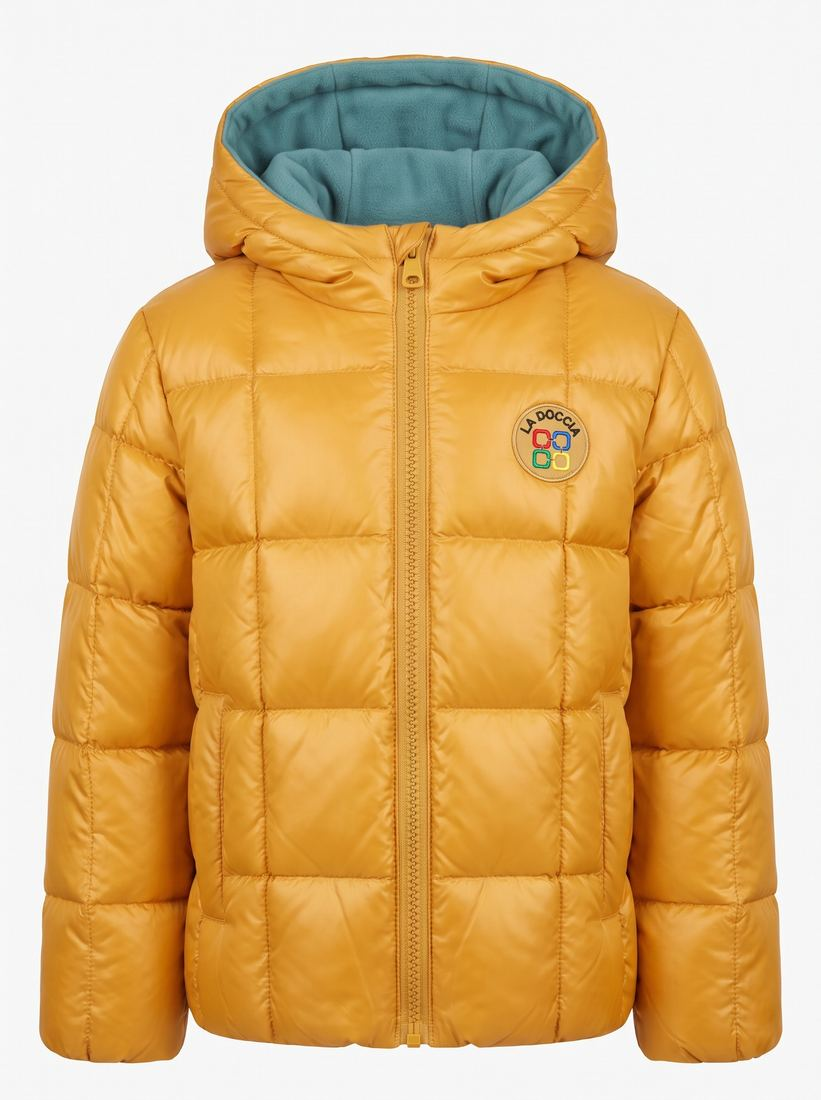
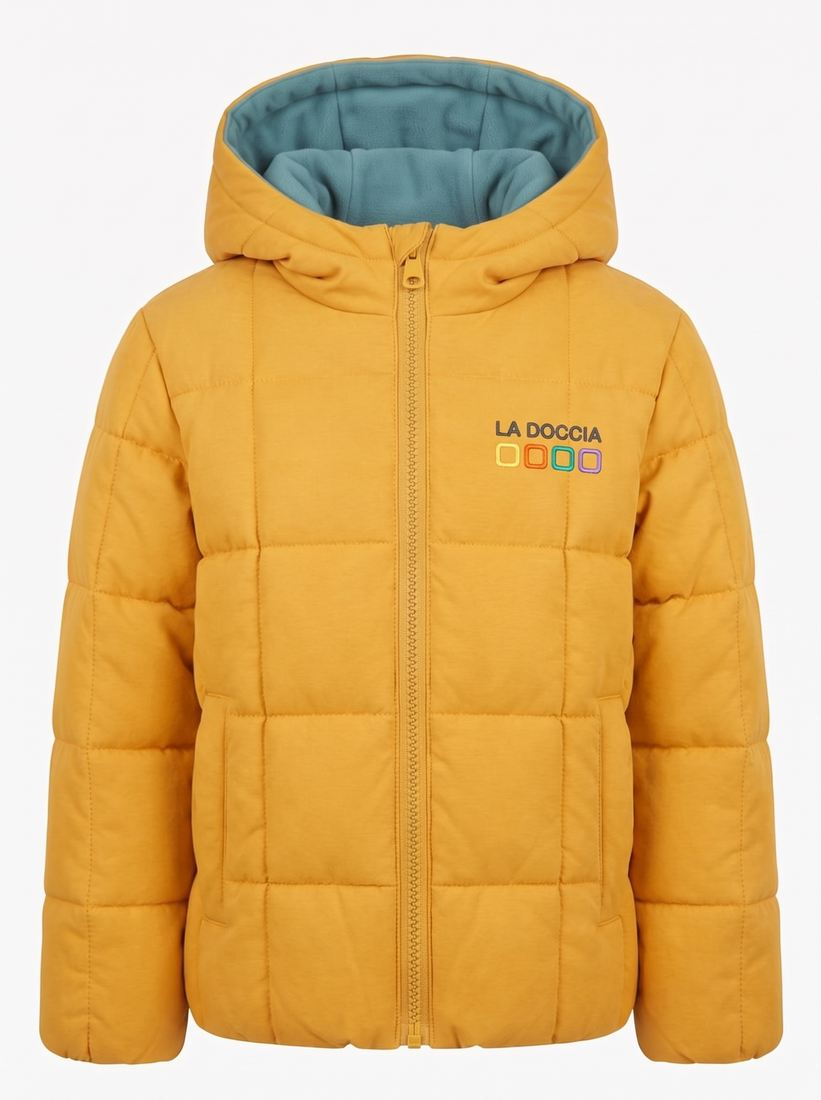
Model-Fotos fuer alle Parfuems, Cap in 4 Farben repariert, Kinderjacke matt/bunt, 3 neue Modeprodukte
- Jedes Parfuem bekommt ein E-Commerce-Modelfoto in der Galerie (Flakon designtreu)
- Cap Quadro: Geisterbild-Fehler entfernt, jetzt in Weiss/Gelb/Tuerkis/Violett waehlbar
- Kinder-Piumino: matte Baumwoll-Optik statt Moncler-Glanz, Wortmarke statt dunklem Badge, Weiss/Gelb/Tuerkis
- Neu: Premium-Polo Bottone (Gold-Quadrat-Knoepfe), Track-Jacke Pista Donna, Kinder-Strickpulli Quadretti Mini

diff --git a/index.html b/index.html
@@ -2101,7 +2101,7 @@ const P=[
  {id:'p106',cat:'mode',sc:'sport',who:'damen',n:'Trainings-Top „Flow“',p:29,img:'assets/p/106_a.jpg',img2:'assets/p/106_b.jpg',gal:['assets/p/106_b.jpg'],r:4.7,rv:9,badge:'Neu',mat:'100 % recyceltes Polyester',sizes:["XS","S","M","L"],rel:["p106","p105","p105"],d:'Lässiges weißes Trainingsshirt mit überschnittenen Schultern — luftig über Bra und Leggings.',x:'Federleicht und atmungsaktiv, bleibt geruchsneutral. Bei 30 °C waschen.'},
  {id:'p108',cat:'mode',sc:'sport',who:'damen',n:'Sporttasche „Palestra“',p:49,img:'assets/p/108_neu_a.jpg',colors:[4,5,2],cimg:{Weiß:'assets/p/108_neu_a.jpg',Schwarz:'assets/p/108_schwarz.jpg','Türkis':'assets/p/108_tuerkis.jpg'},r:4.9,rv:6,badge:'Neu',mat:'100 % recyceltes Polyester',rel:["p109","p105","p105"],d:'Die Trainingstasche nach eigener Skizze: gewölbter Deckel, vier Quadrat-Fenster in den Markenfarben auf der Front.',x:'Wasserabweisendes Gewebe, Schuhfach, abwischbarer Boden. Bei 30 °C von Hand waschen.'},
  {id:'p109',cat:'mode',sc:'sport',who:'damen',n:'Trinkflasche „Idra“, 750 ml',p:24,img:'assets/p/109_a.jpg',img2:'assets/p/109_b.jpg',gal:['assets/p/109_b.jpg'],r:4.8,rv:11,badge:'Neu',rel:["p108","p105","p109"],d:'Doppelwandige Edelstahlflasche in mattem Türkis mit den vier Quadraten — hält 24 h kalt.',x:'Auslaufsicher, passt in gängige Flaschenhalter. Von Hand spülen, nicht für kohlensäurehaltige Getränke.'},
- {id:'p128',cat:'parfuem',sc:'edp',n:'Eau de Parfum „Blocco“, 50 ml',p:159,img:'assets/p/128_a.jpg',img2:'assets/p/128_b.jpg',gal:["assets/p/128_b.jpg"],r:5.0,rv:2,badge:'Neu',rel:["p128","p140","p142"],d:'Vier Würfel aus sattem Farbglas — Gelb, Orange, Türkis, Violett — übereinander, gekrönt vom runden Golddeckel. Unser Signature-Turm.',x:'14 % Duftölanteil: Ambra, Zeder und ein Hauch Salz. Design geschützt, Erstveröffentlichung dokumentiert.'},
+ {id:'p128',cat:'parfuem',sc:'edp',n:'Eau de Parfum „Blocco“, 50 ml',p:159,img:'assets/p/128_a.jpg',img2:'assets/p/128_b.jpg',gal:["assets/p/128_b.jpg", "assets/p/128_c.jpg"],r:5.0,rv:2,badge:'Neu',rel:["p128","p140","p142"],d:'Vier Würfel aus sattem Farbglas — Gelb, Orange, Türkis, Violett — übereinander, gekrönt vom runden Golddeckel. Unser Signature-Turm.',x:'14 % Duftölanteil: Ambra, Zeder und ein Hauch Salz. Design geschützt, Erstveröffentlichung dokumentiert.'},
  {id:'p130',cat:'mode',sc:'kleidung',who:'herren',n:'Poloshirt „Marina Oro“',p:129,img:'assets/p/130_a.jpg',r:5.0,rv:2,badge:'Neu',mat:'100 % Piqué-Baumwolle (schwere Qualität)',sizes:["S","M","L","XL"],rel:["p120","p131","p122"],d:'Die Premium-Schiene: weißes Piqué-Polo mit goldenen Quadrat-Knöpfen, goldenem Logostick und der sichtbaren goldenen Ziernaht — unsere Handschrift, die alle anderen verstecken.',x:'Fette Kontrastnähte an Schulter, Kragen und Knopfleiste. Bei 30 °C waschen, in Form ziehen.'},
  {id:'p131',cat:'mode',sc:'kleidung',who:'herren',n:'Hemd „Camicia“',p:119,img:'assets/p/131_a.jpg',r:4.9,rv:2,badge:'Neu',mat:'100 % Baumwolle (Oxford)',sizes:["S","M","L","XL"],rel:["p130","p120","p122"],d:'Weißes Hemd, komplett zum Öffnen: goldene Quadrat-Knöpfe über die ganze Leiste, türkise Ziernähte an Schultern und Manschetten, Brusttasche mit Logostick.',x:'Sichtbare Nähte als Markenzeichen — wirkt unzerreißbar. Bei 40 °C waschen, bügelleicht.'},
  {id:'p132',cat:'mode',sc:'schuhe',who:'damen',n:'Sneaker „Scintilla“',p:169,img:'assets/p/132_a.jpg',colors:[4,5],cimg:{Weiß:'assets/p/132_a.jpg',Schwarz:'assets/p/132_schwarz.jpg'},r:5.0,rv:3,badge:'Neu',mat:'Leder, Gummisohle',sizes:["36","37","38","39","40","41"],rel:["p64","p116","p117"],d:'Die Premium-Schiene: weißer Ledersneaker mit goldenen Ziernähten an jeder Kante und dem funkelnden Kristall-Quadrat an der Ferse — strahlt, sobald die Sonne drauffällt.',x:'Kristallbesatz aus geschliffenem Acryl, geprägtes LA DOCCIA an der Ferse. Mit Ledertuch pflegen.'},
@@ -2111,25 +2111,28 @@ const P=[
  {id:'p136',cat:'mode',sc:'taschen',who:'damen',n:'Handtasche „Quadra Mini“',p:129,img:'assets/p/136_a.jpg',r:5.0,rv:2,badge:'Neu',mat:'Genarbtes Leder, goldene Kette',rel:["p117","p137","p132"],d:'Die kleine Quadra für den Abend: kompakt, streng quadratisch, mit goldener Kette und dem funkelnden Kristall-Quadrat.',x:'Kette abnehmbar, Platz für Telefon, Karte und Lippenbalsam. Goldene Hardware.'},
  {id:'p137',cat:'mode',sc:'taschen',who:'damen',n:'Baguette „Lunga“',p:149,img:'assets/p/137_a.jpg',r:4.9,rv:2,badge:'Neu',mat:'Genarbtes Leder',rel:["p117","p136","p116"],d:'Die längliche Form der Familie: schmale Baguette-Tasche mit exakt geraden Kanten, goldener Ziernaht und den vier goldgefassten Quadraten auf der Front.',x:'Unter den Arm oder in die Hand — Magnetverschluss, goldene Füße am Boden.'},
  {id:'p138',cat:'mode',sc:'kleidung',who:'herren',n:'Sommerhemd „Quadri“',p:109,img:'assets/p/138_a.jpg',r:4.9,rv:2,badge:'Neu',mat:'100 % Baumwolle',sizes:["S","M","L","XL"],rel:["p131","p130","p122"],d:'Das Sommerhemd mit dem gestreuten Quadrate-Print — wie Farbtropfen im Regen, elegant statt laut. Goldene Quadrat-Knöpfe, türkise Ziernaht am Kragen.',x:'Reverskragen, gerader Saum — lässt sich offen oder geschlossen tragen. Bei 30 °C waschen.'},
- {id:'p140',cat:'parfuem',sc:'edp',n:'Eau de Parfum „Duo“, 30 ml',p:99,img:'assets/p/140_a.jpg',img2:'assets/p/140_b.jpg',gal:["assets/p/140_b.jpg"],r:4.9,rv:2,badge:'Neu',rel:["p128","p141","p128"],d:'Zwei Würfel, zwei Farben: Türkis unten, Violett oben, ein geschlossener Block — der kleine Bruder des Turms. Die Öffnung sitzt unsichtbar im oberen Würfel.',x:'12 % Duftölanteil. Handlich fürs Regal und die Reise.'},
- {id:'p141',cat:'parfuem',sc:'edp',n:'Eau de Parfum „Piccolo“, 15 ml',p:59,img:'assets/p/141_a.jpg',img2:'assets/p/141_b.jpg',gal:["assets/p/141_b.jpg"],r:4.9,rv:3,badge:'Neu',rel:["p140","p128","p141"],d:'Ein einzelner Würfel in Gelb mit Golddeckel — das Reiseformat der Turm-Familie, klein wie ein Schmuckstück.',x:'Flugtauglich unter 100 ml. Auch schön als Geschenk zum Kennenlernen.'},
- {id:'p142',cat:'parfuem',sc:'edp',n:'Eau de Parfum „Grattacielo“, 75 ml',p:189,img:'assets/p/142_a.jpg',img2:'assets/p/142_b.jpg',gal:["assets/p/142_b.jpg"],r:5.0,rv:2,badge:'Neu',rel:["p128","p128","p140"],d:'Der Wolkenkratzer: sechs dünne Glasscheiben in den Markenfarben übereinander, oben bündig geschlossen — das große Format der Familie.',x:'15 % Duftölanteil — der langlebigste Duft der Kollektion.'},
+ {id:'p140',cat:'parfuem',sc:'edp',n:'Eau de Parfum „Duo“, 30 ml',p:99,img:'assets/p/140_a.jpg',img2:'assets/p/140_b.jpg',gal:["assets/p/140_b.jpg", "assets/p/140_c.jpg"],r:4.9,rv:2,badge:'Neu',rel:["p128","p141","p128"],d:'Zwei Würfel, zwei Farben: Türkis unten, Violett oben, ein geschlossener Block — der kleine Bruder des Turms. Die Öffnung sitzt unsichtbar im oberen Würfel.',x:'12 % Duftölanteil. Handlich fürs Regal und die Reise.'},
+ {id:'p141',cat:'parfuem',sc:'edp',n:'Eau de Parfum „Piccolo“, 15 ml',p:59,img:'assets/p/141_a.jpg',img2:'assets/p/141_b.jpg',gal:["assets/p/141_b.jpg", "assets/p/141_c.jpg"],r:4.9,rv:3,badge:'Neu',rel:["p140","p128","p141"],d:'Ein einzelner Würfel in Gelb mit Golddeckel — das Reiseformat der Turm-Familie, klein wie ein Schmuckstück.',x:'Flugtauglich unter 100 ml. Auch schön als Geschenk zum Kennenlernen.'},
+ {id:'p142',cat:'parfuem',sc:'edp',n:'Eau de Parfum „Grattacielo“, 75 ml',p:189,img:'assets/p/142_a.jpg',img2:'assets/p/142_b.jpg',gal:["assets/p/142_b.jpg", "assets/p/142_c.jpg"],r:5.0,rv:2,badge:'Neu',rel:["p128","p128","p140"],d:'Der Wolkenkratzer: sechs dünne Glasscheiben in den Markenfarben übereinander, oben bündig geschlossen — das große Format der Familie.',x:'15 % Duftölanteil — der langlebigste Duft der Kollektion.'},
  {id:'p143',cat:'mode',sc:'jacken',who:'herren',n:'Daunenjacke „Piuma“',p:249,img:'assets/p/143_schwarz.jpg',colors:[5,2,4],cimg:{Schwarz:'assets/p/143_schwarz.jpg','Türkis':'assets/p/143_tuerkis.jpg',Weiß:'assets/p/143_weiss.jpg'},r:5.0,rv:2,badge:'Neu',mat:'Recyceltes Polyamid, Daune (RDS)',sizes:["S","M","L","XL"],rel:["p126","p146","p130"],d:'Unsere Daunenjacke mit dem Quadrat-Stepp: statt Querstreifen wölbt sich jede Kammer als Quadrat. Goldener Reißverschluss, Brustbadge mit den vier Quadraten.',x:'Warm, leicht, wasserabweisend. Bei 30 °C im Schonwaschgang, mit Tennisbällen trocknen.'},
  {id:'p144',cat:'mode',sc:'jacken',who:'damen',n:'Daunenjacke „Piuma Donna“',p:229,img:'assets/p/144_violett.jpg',colors:[3,4,1],cimg:{Violett:'assets/p/144_violett.jpg',Weiß:'assets/p/144_weiss.jpg',Orange:'assets/p/144_orange.jpg'},r:5.0,rv:3,badge:'Neu',mat:'Recyceltes Polyamid, Daune (RDS)',sizes:["XS","S","M","L"],rel:["p143","p117","p116"],d:'Die cropped Version mit Quadrat-Steppung und Goldzipper — Volumen oben, Taille frei.',x:'Warm, federleicht, wasserabweisend. Bei 30 °C im Schonwaschgang.'},
  {id:'p145',cat:'mode',sc:'kleidung',who:'damen',n:'Strickpullover „Quadretti“',p:149,img:'assets/p/145_creme.jpg',colors:[4,5],cimg:{Weiß:'assets/p/145_creme.jpg',Schwarz:'assets/p/145_anthrazit.jpg'},r:4.9,rv:2,badge:'Neu',mat:'70 % Wolle, 30 % Baumwolle',sizes:["XS","S","M","L"],rel:["p134","p144","p116"],d:'Cremefarbener Strick mit eingestrickten Hohlquadraten in den vier Markenfarben — verspielt, aber teuer gedacht. Goldfaden an Kragen und Bündchen.',x:'Intarsien-Strick, kein Aufdruck. Handwäsche oder Wollprogramm.'},
  {id:'p146',cat:'mode',sc:'kleidung',who:'herren',n:'Track-Jacke „Pista“',p:179,img:'assets/p/146_weiss.jpg',colors:[4,5],cimg:{Weiß:'assets/p/146_weiss.jpg',Schwarz:'assets/p/146_schwarz.jpg'},r:4.9,rv:2,badge:'Neu',mat:'Technischer Jersey',sizes:["S","M","L","XL"],rel:["p143","p133","p122"],d:'Retro-Sportjacke mit dem Quadrate-Band an beiden Ärmeln und goldener Stickerei — Sport als Mode.',x:'Rippkragen mit Türkis-Orange-Tipping. Bei 30 °C waschen.'},
- {id:'p147',cat:'mode',sc:'jacken',who:'kinder',n:'Kinder-Daunenjacke „Piumino“',p:119,img:'assets/p/147_gelb.jpg',colors:[0,2],cimg:{Gelb:'assets/p/147_gelb.jpg','Türkis':'assets/p/147_tuerkis.jpg'},r:5.0,rv:2,badge:'Neu',mat:'Recyceltes Polyamid, Wattierung',sizes:["98/104","110/116","122/128"],rel:["p82","p83","p87"],d:'Die Mini-Piuma: Quadrat-Steppung, kuschelige Kapuze mit farbigem Futter und das Badge mit den vier Quadraten.',x:'Wattiert statt Daune — pflegeleicht und tierfreundlich. Bei 30 °C waschbar.'},
- {id:'p148',cat:'parfuem',sc:'edp',n:'Eau de Parfum „Torre“, 100 ml',p:199,img:'assets/p/148_a.jpg',img2:'assets/p/148_b.jpg',gal:["assets/p/148_b.jpg"],r:5.0,rv:2,badge:'Neu',rel:["p128","p142","p128"],d:'Der große Turm: fünf Farbwürfel übereinander, und die Wortmarke läuft senkrecht über die Kanten — die Quadrate sitzen mitten in den Buchstaben. Das Sammlerstück der Kollektion.',x:'15 % Duftölanteil, 100 ml. Der oberste Würfel ist der Deckel. Design geschützt.'},
+ {id:'p147',cat:'mode',sc:'jacken',who:'kinder',n:'Kinder-Daunenjacke „Piumino“',p:119,img:'assets/p/147_weiss.jpg',colors:[4,0,2],cimg:{Weiß:'assets/p/147_weiss.jpg',Gelb:'assets/p/147_gelb.jpg','Türkis':'assets/p/147_tuerkis.jpg'},r:5.0,rv:2,badge:'Neu',mat:'Matter Baumwoll-Mix, Wattierung',sizes:["98/104","110/116","122/128"],rel:["p82","p83","p87"],d:'Die Mini-Piuma in Mattoptik: Quadrat-Steppung, kuschelige Kapuze mit farbigem Futter und die vier Quadrate als Stickerei auf der Brust.',x:'Wattiert statt Daune — pflegeleicht und tierfreundlich. Bei 30 °C waschbar.'},
+ {id:'p148',cat:'parfuem',sc:'edp',n:'Eau de Parfum „Torre“, 100 ml',p:199,img:'assets/p/148_a.jpg',img2:'assets/p/148_b.jpg',gal:["assets/p/148_b.jpg", "assets/p/148_c.jpg"],r:5.0,rv:2,badge:'Neu',rel:["p128","p142","p128"],d:'Der große Turm: fünf Farbwürfel übereinander, und die Wortmarke läuft senkrecht über die Kanten — die Quadrate sitzen mitten in den Buchstaben. Das Sammlerstück der Kollektion.',x:'15 % Duftölanteil, 100 ml. Der oberste Würfel ist der Deckel. Design geschützt.'},
+{id:'p149',cat:'mode',sc:'kleidung',who:'herren',n:'Premium-Polo „Bottone“',p:119,img:'assets/p/149_a.jpg',r:5.0,rv:2,badge:'Neu',mat:'Baumwoll-Piqué',sizes:["S","M","L","XL"],rel:["p146","p122","p130"],d:'Das Polo mit den goldenen Quadrat-Knöpfen — leicht abgerundet wie die Quadrate im Logo. Goldene Ziernähte an Knopfleiste, Kragen und Ärmeln.',x:'Gestickte Gold-Wortmarke mit den vier Quadraten. Bei 30 °C waschen, Knöpfe unempfindlich.'},
+{id:'p150',cat:'mode',sc:'sport',who:'damen',n:'Track-Jacke „Pista Donna“',p:169,img:'assets/p/150_a.jpg',r:4.9,rv:2,badge:'Neu',mat:'Technischer Jersey',sizes:["XS","S","M","L"],rel:["p146","p108","p143"],d:'Die Pista für Damen: tailliert, mit dem Quadrate-Band an beiden Ärmeln, farbigen Ziernähten und goldenem Reißverschluss — Sport als Mode.',x:'Stehkragen, zwei Reißverschlusstaschen. Bei 30 °C waschen.'},
+{id:'p151',cat:'mode',sc:'kleidung',who:'kinder',n:'Kinder-Strickpulli „Quadretti Mini“',p:59,img:'assets/p/151_a.jpg',r:5.0,rv:2,badge:'Neu',mat:'Weiche Wollmischung',sizes:["98/104","110/116","122/128"],rel:["p147","p87","p82"],d:'Kuscheliger Strick in Creme mit verstreuten bunten Quadraten — das Quadretti-Muster für die Kleinen.',x:'Rippbündchen an Kragen und Ärmeln. Wollwaschgang, liegend trocknen.'},
  {id:'p110',cat:'textil',sc:'maentel',who:'kinder',n:'Kinder-Bademantel „Nuvola“',p:44,img:'assets/p/110_a.jpg',img2:'assets/p/110_b.jpg',gal:['assets/p/110_b.jpg'],r:4.9,rv:12,badge:'Neu',mat:'100 % Baumwolle (Frottee)',sizes:["98/104","110/116","122/128"],rel:["p111","p82","p87"],d:'Türkiser Frottee-Bademantel mit Kapuze und Quadrate-Futter in Gelb — kuschelig nach Bad und Schwimmkurs.',x:'Saugstarkes Frottee, aufgesetzte Taschen, Aufhänger im Kragen. Bei 60 °C waschbar.'},
  {id:'p111',cat:'textil',sc:'tuecher',who:'kinder',n:'Kinder-Poncho „Onda“',p:29,img:'assets/p/111_a.jpg',img2:'assets/p/111_b.jpg',gal:['assets/p/111_b.jpg'],r:4.8,rv:9,badge:'Neu',mat:'100 % Baumwolle',rel:["p110","p84","p86"],d:'Sonnengelber Kapuzen-Poncho aus Frottee mit orangem Saum und Quadrate-Bordüre — überwerfen, fertig.',x:'Für Schwimmbad und Strand, trocknet schnell, eine Größe für 2–6 Jahre. Bei 60 °C waschbar.'},
  {id:'p112',cat:'mode',sc:'acc',who:'kinder',n:'Kinder-Regenschirm „Goccia“',p:22,img:'assets/p/112_a.jpg',img2:'assets/p/112_b.jpg',gal:['assets/p/112_b.jpg'],r:4.9,rv:8,badge:'Neu',rel:["p82","p83","p85"],d:'Oranger Kinderschirm mit Quadrate-Kante und türkisem Griff — Regen wird zum Lieblingswetter.',x:'Leichtgängig zu öffnen, abgerundete Spitzen, Ø 72 cm. Griff für kleine Hände.'},
- {id:'p113',cat:'parfuem',sc:'edp',n:'Eau de Parfum „Quattro“, 50 ml',p:159,img:'assets/p/113_a.jpg',img2:'assets/p/113_b.jpg',gal:["assets/p/113_b.jpg"],r:5.0,rv:4,badge:'Neu',rel:["p128","p148","p140"],d:'Vier gefrostete Farbsegmente in einer Flasche — Gelb, Orange, Türkis, Violett. Kein sichtbarer Deckel: die Öffnung sitzt unsichtbar im obersten Segment.',x:'13 % Duftölanteil, hält 7–9 Stunden. Design geschützt, Erstveröffentlichung dokumentiert.'},
- {id:'p114',cat:'parfuem',sc:'edp',n:'Eau de Parfum „Cubo“, 50 ml',p:139,img:'assets/p/114_a.jpg',img2:'assets/p/114_b.jpg',gal:["assets/p/114_b.jpg"],r:4.9,rv:3,badge:'Neu',rel:["p113","p128","p113"],d:'Der Turm aus vier Würfeln: jeder leicht gegen den nächsten gedreht, innen fließt der Duft von Gelb nach Violett. Ein Guss, klare Kanten, Würfelkappe.',x:'12 % Duftölanteil, hält 6–8 Stunden. Steht wie ein Designobjekt im Regal — genau so gedacht.'},
+ {id:'p113',cat:'parfuem',sc:'edp',n:'Eau de Parfum „Quattro“, 50 ml',p:159,img:'assets/p/113_a.jpg',img2:'assets/p/113_b.jpg',gal:["assets/p/113_b.jpg", "assets/p/113_c.jpg"],r:5.0,rv:4,badge:'Neu',rel:["p128","p148","p140"],d:'Vier gefrostete Farbsegmente in einer Flasche — Gelb, Orange, Türkis, Violett. Kein sichtbarer Deckel: die Öffnung sitzt unsichtbar im obersten Segment.',x:'13 % Duftölanteil, hält 7–9 Stunden. Design geschützt, Erstveröffentlichung dokumentiert.'},
+ {id:'p114',cat:'parfuem',sc:'edp',n:'Eau de Parfum „Cubo“, 50 ml',p:139,img:'assets/p/114_a.jpg',img2:'assets/p/114_b.jpg',gal:["assets/p/114_b.jpg", "assets/p/114_c.jpg"],r:4.9,rv:3,badge:'Neu',rel:["p113","p128","p113"],d:'Der Turm aus vier Würfeln: jeder leicht gegen den nächsten gedreht, innen fließt der Duft von Gelb nach Violett. Ein Guss, klare Kanten, Würfelkappe.',x:'12 % Duftölanteil, hält 6–8 Stunden. Steht wie ein Designobjekt im Regal — genau so gedacht.'},
  {id:'p116',cat:'mode',sc:'schuhe',who:'damen',n:'Plateau-Sneaker „Nuvola“',p:139,img:'assets/p/116_a.jpg',colors:[4,2,0],cimg:{Weiß:'assets/p/116_a.jpg','Türkis':'assets/p/116_tuerkis.jpg',Gelb:'assets/p/116_gelb.jpg'},r:4.9,rv:2,badge:'Neu',mat:'Canvas, Gummisohle',sizes:["36","37","38","39","40","41"],rel:["p64","p65","p105"],d:'Der Statement-Sneaker: cremeweiße Bumper-Sohle mit weicher, runder Kappe — wolkig dick, federleicht getragen.',x:'Geprägtes LA DOCCIA an der Ferse, vier gestickte Quadrate am Schaft. Sohle abwischbar, Obermaterial imprägniert.'},
  {id:'p117',cat:'mode',sc:'taschen',who:'damen',n:'Handtasche „Quadra“',p:189,img:'assets/p/117_neu_a.jpg',colors:[6,5,7],cimg:{Gold:'assets/p/117_neu_a.jpg',Schwarz:'assets/p/117_naht-schwarz.jpg','Grün':'assets/p/117_naht-gruen.jpg'},r:4.9,rv:3,badge:'Neu',mat:'Genarbtes Leder, Baumwollfutter',rel:["p136","p137","p132"],d:'Streng quadratisch mit eckigen Griffen und dem goldgefassten Kristall-Quadrat. Die Ziernaht wählen Sie selbst: Gold, Schwarz oder Grün — unsere Handschrift, Ihre Entscheidung.',x:'Goldene Hardware, Magnetverschluss, Innenfach mit Reißverschluss.'},
  {id:'p118',cat:'mode',sc:'kleidung',who:'herren',n:'T-Shirt „Essenziale“',p:79,img:'assets/p/118_a.jpg',img2:'assets/p/118_b.jpg',gal:['assets/p/118_b.jpg','assets/p/118_video.mp4'],r:4.9,rv:4,badge:'Neu',mat:'100 % Bio-Baumwolle, 220 g/m²',sizes:["S","M","L","XL"],rel:["p130","p131","p122"],d:'Das schwere off-white T-Shirt mit den vier großen Hohlquadraten und der Serifen-Wortmarke auf der Brust — das Statement-Piece der Herrenlinie.',x:'Vorgewaschen, verstärkte Schulternähte, Rippkragen mit türkiser Linie. Bei 30 °C waschen.'},
  {id:'p120',cat:'mode',sc:'kleidung',who:'herren',n:'Poloshirt „Marina“',p:79,img:'assets/p/120_a.jpg',img2:'assets/p/120_b.jpg',gal:['assets/p/120_b.jpg'],r:4.8,rv:3,badge:'Neu',mat:'100 % Piqué-Baumwolle',sizes:["S","M","L","XL"],rel:["p120","p122","p126"],d:'Piqué-Polo in Türkis mit weißem Logostick — vom Frühstück bis zum Abendessen richtig angezogen.',x:'Formstabiler Kragen, seitliche Schlitze. Bei 30 °C waschen, in Form ziehen.'},
- {id:'p122',cat:'mode',sc:'huete',who:'herren',n:'Cap „Quadro“',p:49,img:'assets/p/122_neu_a.jpg',r:4.9,rv:5,badge:'Neu',mat:'100 % Baumwoll-Twill',rel:["p130","p120","p131"],d:'Die Luxus-Cap: alle sechs Panels mit fetter goldener Ziernaht abgesteppt, goldenes LA DOCCIA mit den vier Quadraten — die Cap fürs Golfspiel, nicht für den Regen.',x:'Goldene Metallschließe, größenverstellbar. Nicht waschen, feucht abwischen.'},
+ {id:'p122',cat:'mode',sc:'huete',who:'herren',n:'Cap „Quadro“',p:49,img:'assets/p/122_weiss.jpg',colors:[4,0,2,3],cimg:{Weiß:'assets/p/122_weiss.jpg',Gelb:'assets/p/122_gelb.jpg','Türkis':'assets/p/122_tuerkis.jpg',Violett:'assets/p/122_violett.jpg'},r:4.9,rv:5,badge:'Neu',mat:'100 % Baumwoll-Twill',rel:["p130","p120","p131"],d:'Die Luxus-Cap in vier Farben: alle sechs Panels mit fetter goldener Ziernaht abgesteppt, goldenes LA DOCCIA mit den vier Quadraten — die Cap fürs Golfspiel, nicht für den Regen.',x:'Goldene Metallschließe, größenverstellbar. Nicht waschen, feucht abwischen.'},
  {id:'p124',cat:'textil',sc:'maentel',who:'herren',n:'Morgenmantel „Uomo“',p:99,img:'assets/p/124_a.jpg',img2:'assets/p/124_b.jpg',gal:['assets/p/124_b.jpg'],r:4.9,rv:2,badge:'Neu',mat:'100 % Baumwolle (Waffelpiqué)',sizes:["M","L","XL"],rel:["p125","p42","p120"],d:'Steingrauer Waffelpiqué-Mantel mit Schalkragen — leicht, schnell trocknend, mit gesticktem Brustlogo.',x:'Zwei aufgesetzte Taschen, Gürtelschlaufen. Bei 60 °C waschbar, trocknergeeignet.'},
  {id:'p125',cat:'textil',sc:'tuecher',who:'herren',n:'Saunatuch, 80 × 200 cm',p:34,img:'assets/p/125_a.jpg',img2:'assets/p/125_b.jpg',gal:['assets/p/125_b.jpg','assets/p/125_video.mp4'],r:4.9,rv:4,badge:'Neu',mat:'100 % Baumwolle, 500 g/m²',rel:["p124","p39","p40"],d:'Extralanges Saunatuch in Weiß mit türkiser Webbordüre und Tonstick — großzügig geschnitten.',x:'Bei 60 °C waschbar, trocknergeeignet. Vor dem ersten Gebrauch separat waschen.'},
  {id:'p126',cat:'mode',sc:'jacken',who:'herren',n:'Regenjacke „Perla Uomo“',p:149,img:'assets/p/126_a.jpg',img2:'assets/p/126_b.jpg',gal:['assets/p/126_b.jpg','assets/p/126_video.mp4'],r:5.0,rv:3,badge:'Neu',mat:'100 % Polyester, PFC-frei imprägniert',sizes:["S","M","L","XL"],rel:["p62","p126","p120"],d:'Die Perla für ihn: mattes Petrol, weißer Reißverschluss, das Wasser perlt sichtbar ab.',x:'Wassersäule 10.000 mm, getapte Nähte, verstellbare Kapuze. Imprägnierung im Trockner reaktivierbar.'}
